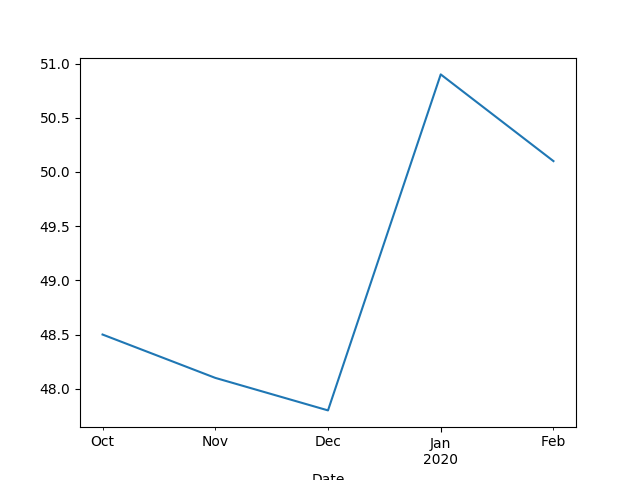
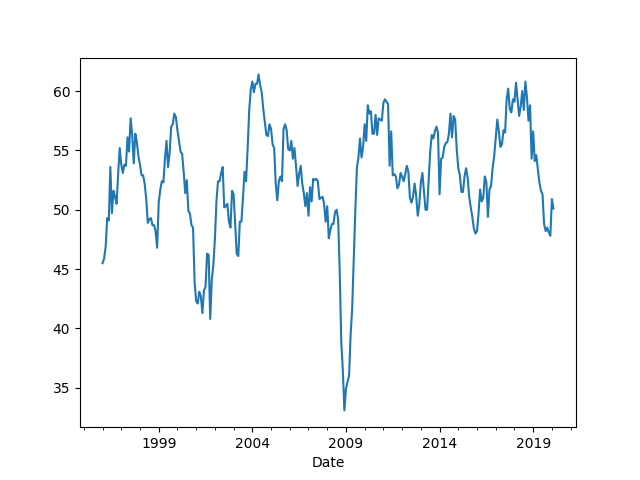
-

diff --git a/en/2019/05/stats.md b/en/2019/05/stats.md
@@ -256,25 +256,23 @@ DATE
 import quandl, os, datetime
 from datetime import timedelta
 
-bdays = int(180)
 today = datetime.datetime.now()
-end_d=datetime.datetime(today.year, today.month, today.day)
-start_d = end_d - timedelta(days=bdays)
+start=datetime.datetime(1996, 1, 1)
+end=datetime.datetime(today.year, today.month, today.day)
 today = datetime.datetime.now()
 df = quandl.get("ISM/MAN_PMI-PMI-Composite-Index", 
                 returns="pandas",
-                start_date=start_d.strftime('%Y-%m-%d'),
+                start_date=start.strftime('%Y-%m-%d'),
                 end_date=today.strftime('%Y-%m-%d'),
                 authtoken=open(".quandl").read())
 
-print (df['PMI'].tail(8))
+print (df['PMI'].tail(4))
 df['PMI'].plot()
 plt.savefig('pmi.png')
 ```
 
 ```text
 Date
-2019-10-01    48.5
 2019-11-01    48.1
 2019-12-01    47.8
 2020-01-01    50.9
@@ -584,26 +582,3 @@ Name: Adj Close, dtype: float64
 ```
 
 ![](vix.png)
-
-
-
-
-
-
-
-
-
-
-
-
-
-
-
-
-
-
-
-
-
-
-

diff --git a/en/tweets/2020/week11c.md b/en/tweets/2020/week11c.md
@@ -14,7 +14,7 @@ Pic has him shaking hands with DJT
 
 Brazilian President Jair Bolsonaro tests positive for coronavirus"
 
-[Link](https://mobile.twitter.com/businessinsider/status/1238466016289619969)
+[Link](https://image.cnbcfm.com/api/v1/image/106441784-15841049150872020-03-12t190431z_2058224813_rc2jif9j6448_rtrmadp_3_usa-trump.jpg?v=1584105008&w=630&h=354)
 
 *2020-3-13 17:29:7*
 
